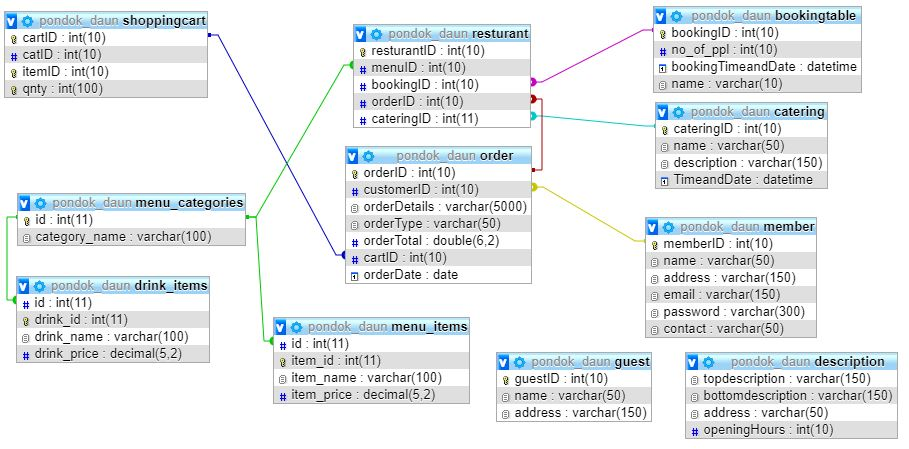
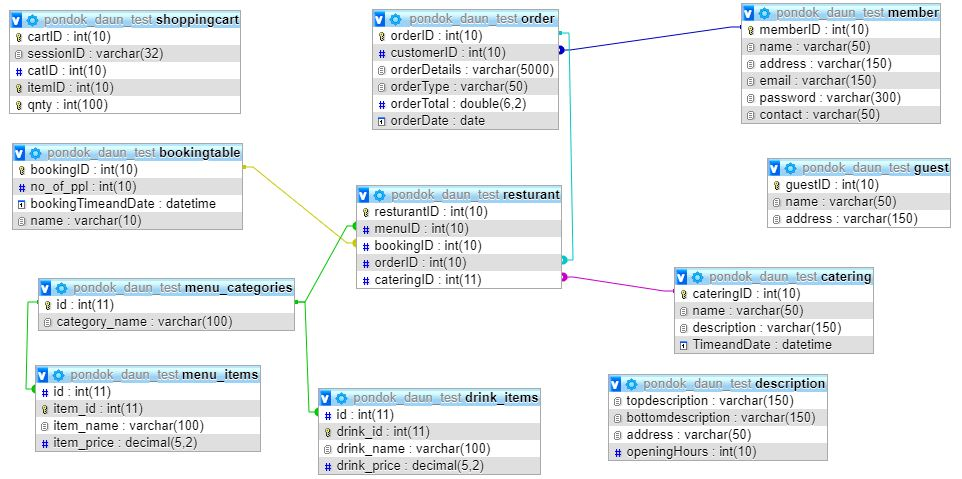
Add files via upload
This was uploaded with sessions applied on the menu, drinks menu, order cart and order confirmed

diff --git a/Pondok_Daun/order_confirmed.php b/Pondok_Daun/order_confirmed.php
@@ -1,3 +1,8 @@
+<?php
+	session_start();
+	require_once "files/auth.php";
+?>
+
 <!DOCTYPE html5>
 <html>
 <head>
@@ -68,6 +73,8 @@
 	
 		$conn = mysqli_connect($server, $usrname, $passwd, $dbname);
 		
+		$sID = $_COOKIE["PHPSESSID"];
+		
 		date_default_timezone_set('Australia/Adelaide');
 		$date = date('y-m-d');
 		$today = $date;
@@ -107,7 +114,6 @@
 				$drink_name = $rows['drink_name'];
 				$drink_price = $rows['drink_price'];
 				$drink_qnty = $rows['qnty'];
-				$cart = $rows['cartID'];
 			
 				$order_details = $order_details . $drink_qnty . " x " . $drink_name ." || ";
 				$order_total = $order_total + ($drink_price * $drink_qnty);
@@ -115,13 +121,13 @@
 	
 			$order_type = $_POST['order_type'];
 		
-			$insert = "INSERT INTO `order` (`orderID`, `customerID`, `orderDetails`, `orderType`, `orderTotal`, `cartID`, `orderDate`)
-			VALUES ('NULL', '1', '".$order_details."', '".$order_type."', '".$order_total."', '".$cartID."', '".$today."')";
+			$insert = "INSERT INTO `order` (`orderID`, `customerID`, `orderDetails`, `orderType`, `orderTotal`, `orderDate`)
+			VALUES ('NULL', '1', '".$order_details."', '".$order_type."', '".$order_total."', '".$today."')";
 		
 			$insert_complete = mysqli_query($conn, $insert) or die(mysqli_error($conn));
 		
-			/*$delete_query = "DELETE FROM `shoppingcart` WHERE cartID = ".$cartID."";
-			$delete_result = mysqli_query($conn, $delete_query) or die(mysqli_error($conn));*/
+			$delete_query = "DELETE FROM `shoppingcart` WHERE sessionID = '".$sID."'";
+			$delete_result = mysqli_query($conn, $delete_query) or die(mysqli_error($conn));
 		
 			echo "<div style='background-color:white; height:30%'><p align='center' style='font-size:24px; color:black; padding-top:10%'>Thank you!<br /> Your order has been placed. <br /> Back to <a href='index.php' style='text-decoration:none;'>Home</a> page</p></div>";
 			mysqli_close($conn);

diff --git a/Pondok_Daun/order_cart.php b/Pondok_Daun/order_cart.php
@@ -1,3 +1,8 @@
+<?php
+	session_start();
+	require_once "files/auth.php";
+?>
+
 <!DOCTYPE html5>
 <html>
 <head>
@@ -62,10 +67,13 @@
 	
 		$conn = mysqli_connect($server, $usrname, $passwd, $dbname);
 		
+		$sID = $_COOKIE["PHPSESSID"];
+		
 		$get_food = "SELECT MI.item_name , MI.item_price, SC.qnty, SC.cartID
 					FROM menu_items AS MI, shoppingcart AS SC, menu_categories AS MC
 					WHERE SC.itemID = MI.item_id
-					AND SC.catID = MC.id";
+					AND SC.catID = MC.id
+					AND SC.sessionID = '".$sID."'";
 		
 		$get_food_result = mysqli_query($conn, $get_food) or die(mysqli_error($conn));
 		$total = 0;
@@ -96,7 +104,8 @@
 		$get_drinks = "	SELECT DI.drink_name, DI.drink_price, SC.qnty, SC.cartID
 						FROM drink_items AS DI, shoppingcart AS SC, menu_categories AS MC
 						WHERE SC.itemID = DI.drink_id 
-						AND SC.catID = MC.id";
+						AND SC.catID = MC.id
+						AND SC.sessionID = '".$sID."'";
 		
 		$get_drink_result = mysqli_query($conn, $get_drinks) or die(mysqli_error($conn));
 		

diff --git a/Pondok_Daun/menu.php b/Pondok_Daun/menu.php
@@ -1,3 +1,8 @@
+<?php
+	session_start();
+	require_once "files/auth.php";
+?>
+
 <!DOCTYPE html5>
 <html>
 <head>
@@ -62,6 +67,8 @@
 	
 		$conn = mysqli_connect($server, $usrname, $passwd, $dbname);
 		
+		$sID = $_COOKIE["PHPSESSID"];
+		
 		$get_categories = "SELECT * FROM menu_categories AS MC WHERE MC.id BETWEEN 1 AND 9 ORDER BY id";
 		
 		$get_categories_result = mysqli_query($conn, $get_categories) or die(mysqli_error($conn));
@@ -110,9 +117,8 @@
 						$qnty = $_POST['qnty'];
 						$cat_id = $_POST['cat_id'];
 						$itm_id = $_POST['item_id'];
-						$itm_nm = 
-						$order_query = "INSERT INTO `shoppingcart`(`catID`, `itemID`,`qnty`)
-						VALUES(".$cat_id.",".$itm_id.",".$qnty.")";
+						$order_query = "INSERT INTO `shoppingcart`(`catID`, `sessionID`, `itemID`,`qnty`)
+						VALUES(".$cat_id.", '".$sID."', ".$itm_id.",".$qnty.")";
 						
 						$place_order = mysqli_query($conn, $order_query) or die(mysqli_error($conn));
 						

diff --git a/Pondok_Daun/menu_drink.php b/Pondok_Daun/menu_drink.php
@@ -1,3 +1,8 @@
+<?php
+	session_start();
+	require_once "files/auth.php";
+?>
+
 <!DOCTYPE html5>
 <html>
 <head>
@@ -61,6 +66,8 @@
 	
 		$conn = mysqli_connect($server, $usrname, $passwd, $dbname);
 		
+		$sID = $_COOKIE["PHPSESSID"];
+		
 		$get_categories = "SELECT * FROM menu_categories AS MC WHERE MC.id BETWEEN 10 AND 14 ORDER BY id";
 		
 		$get_categories_result = mysqli_query($conn, $get_categories) or die(mysqli_error($conn));
@@ -109,8 +116,8 @@
 						$cat_id = $_POST['cat_id'];
 						$drnk_id = $_POST['drink_id'];
 						
-						$order_query = "INSERT INTO `shoppingcart`(`catID`, `itemID`, `qnty`)
-						VALUES(".$cat_id.",".$drnk_id.",".$qnty.")";
+						$order_query = "INSERT INTO `shoppingcart`(`catID`, `sessionID`, `itemID`, `qnty`)
+						VALUES(".$cat_id.", '".$sID."', ".$drnk_id.",".$qnty.")";
 						
 						$place_order = mysqli_query($conn, $order_query) or die(mysqli_error($conn));
 					}

diff --git a/Pondok_Daun/files/config.php b/Pondok_Daun/files/config.php
@@ -2,5 +2,5 @@
 	$server ="localhost";
 	$usrname = "root";
 	$passwd = "";
-	$dbname = "pondok_daun";
+	$dbname = "pondok_daun_test";
 ?>
